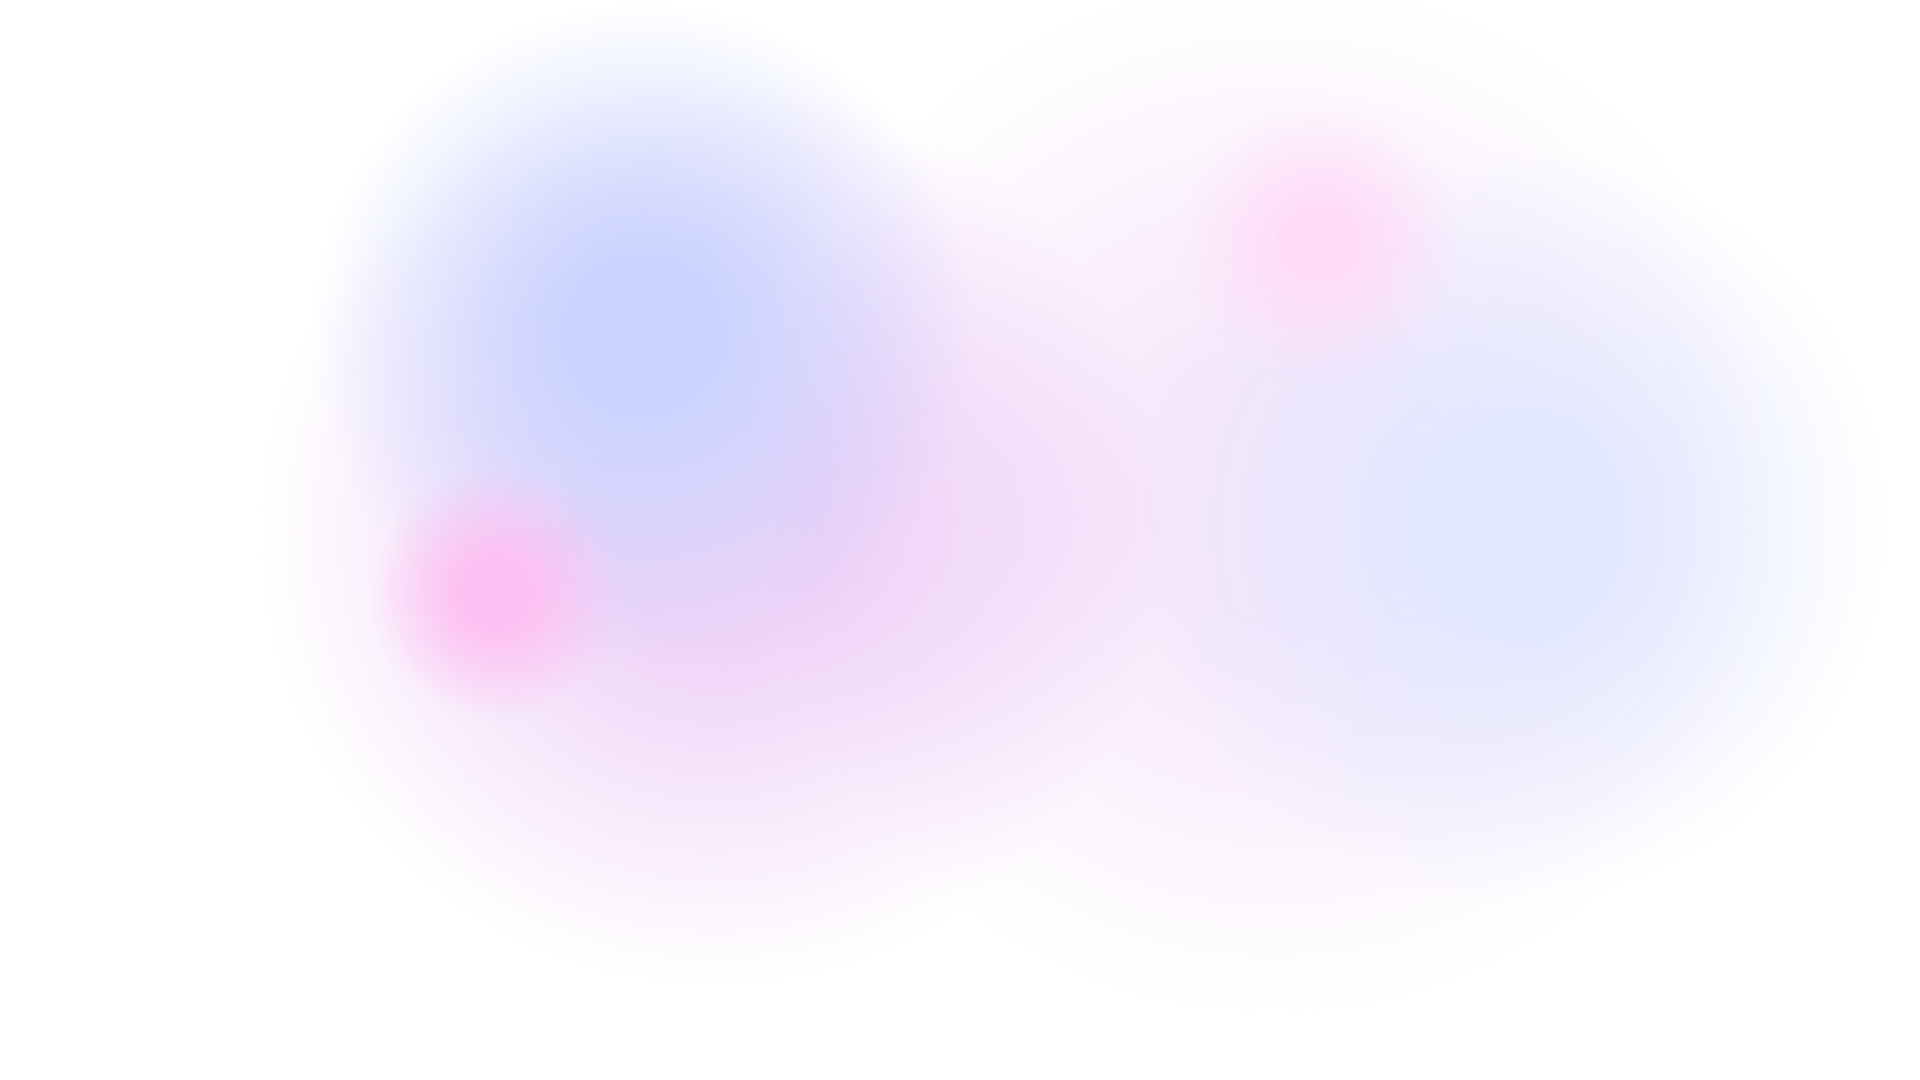
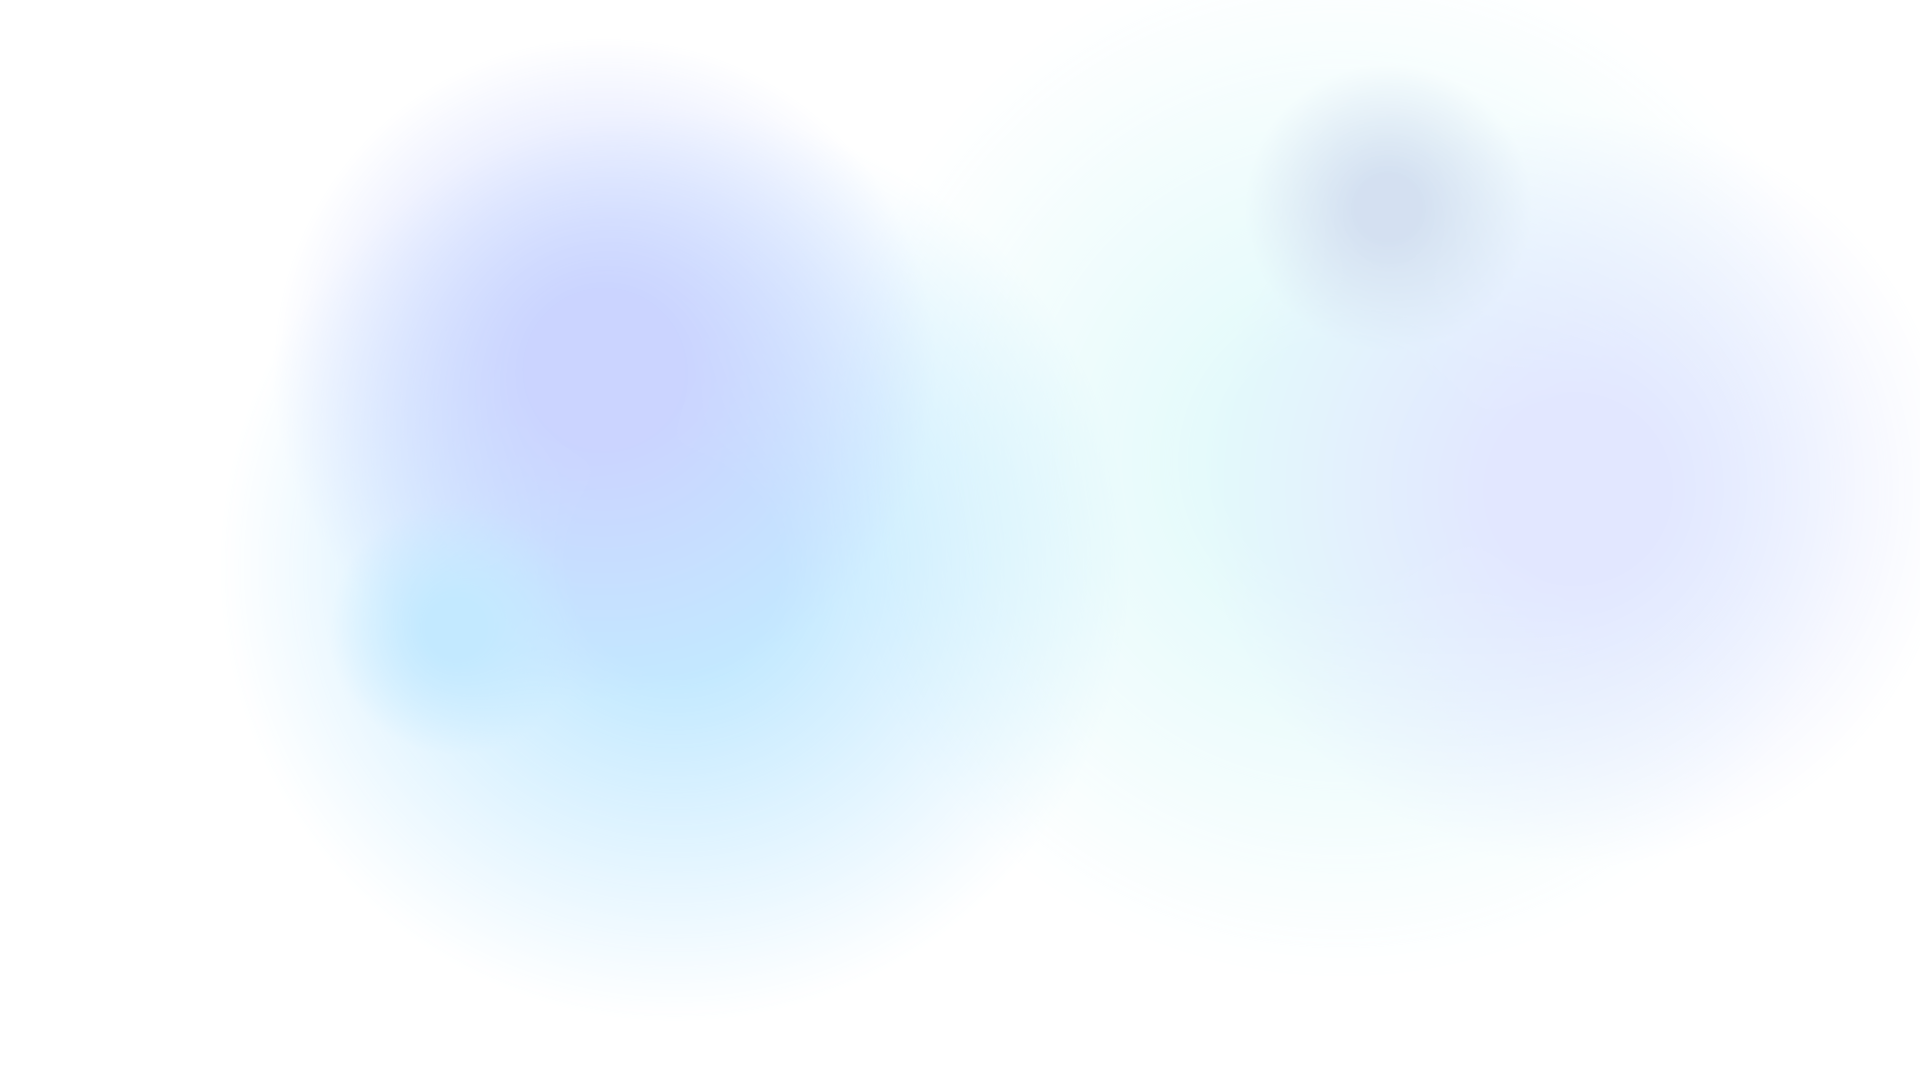
change hero section

Changed region(s): [[0.1562, 0.3361, 0.5625, 0.7944], [0.625, 0.0917, 0.7812, 0.3056]]

diff --git a/src/app/components/HeroSection.tsx b/src/app/components/HeroSection.tsx
@@ -2,6 +2,7 @@
 import React from "react";
 import Image from "next/image";
 import { TypeAnimation } from "react-type-animation";
+import JoinForm from "./JoinForm";
 
 const HeroSection = () => {
     return (
@@ -13,9 +14,16 @@ const HeroSection = () => {
             }}
         >
             <div className="grid grid-cols-1 lg:grid-cols-12 mt-24  mx-auto px-12 py-12 relative">
+                
                 <div className="col-span-7 place-self-center text-center sm:text-left">
                     <h1 className="mb-4 text-6xl lg:text-9xl font-extrabold">
-                        <span className="text-transparent bg-clip-text bg-gradient-to-br from-purple-400 to-pink-600 hover:bg-slate-200">
+                    <p className="text-white text-base ">
+                    ⭐⭐⭐⭐⭐ +200 recensioni
+                    </p>
+                    <p className="text-[#ADB7BE] text-base ">
+                    asjdlkajsjds
+                    </p>
+                        <span className="text-transparent bg-clip-text bg-blue-500 hover:bg-slate-200">
                             Hello I'm{" "}
                         </span>
                         <br />
@@ -37,9 +45,14 @@ const HeroSection = () => {
                     <p className="text-[#ADB7BE] text-base sm:text-lg lg:text-xl">
                     Sono probabilmente il mobile e web developer più appassionato con cui potrete mai lavorare.
                     </p>
-                    <p className="text-[#ADB7BE] text-base sm:text-lg lg:text-xl">
+                    <p className="text-[#ADB7BE] text-base sm:text-lg lg:text-xl pb-6">
                     Se avete un grande progetto che necessita di competenze straordinarie, sono il vostro uomo.
                     </p>
+                    <p className="pb-2 text-[#ADB7BE] ">	&#x2705; Opzione incredibile 1</p>
+                    <p className="pb-2 text-[#ADB7BE] ">	&#x2705; Opzione incredibile 1</p>
+                    <p className="pb-2 text-[#ADB7BE] ">	&#x2705; Opzione incredibile 1</p>
+                    <p className="pb-2 text-[#ADB7BE] ">	&#x2705; Opzione incredibile 1</p>
+
                     <div>
                         <button className="px-6 py-3 w-full sm:w-fit rounded-full mr-4 bg-white text-black mt-8 font-bold">
                             Hire me
@@ -54,15 +67,7 @@ const HeroSection = () => {
 
                 <div className="col-span-5 place-self-center mt-8 lg:mt-0 mb-6 ">
                     
-                    <div className="rounded-full bg-[#181818] w-[250px] h-[250px] lg:w-[600px] lg:h-[600px] relative ">
-                        <Image
-                            src="/images/logo.png"
-                            alt="hero image"
-                            className="absolute transform -translate-x-1/2 -translate-y-1/2 top-1/2 left-1/2 mt-5"
-                            width={500}
-                            height={500}
-                        />
-                    </div>
+                <JoinForm/>
                 </div>
             </div>
         </section>

diff --git a/src/app/components/JoinForm.tsx b/src/app/components/JoinForm.tsx
@@ -1,0 +1,31 @@
+import React from 'react';
+
+const JoinForm = () => {
+  return (
+    <div className="flex flex-col items-center justify-center lg:p-16 max-w-md lg:max-w-2xl mx-auto">
+      <div className="bg-blue-600 text-white  font-bold py-3 px-6 rounded-t-lg text-center w-full text-xl lg:text-3xl">
+        Il tuo Developer di fiducia
+      </div>
+      <div className="p-8 bg-[#121212]  lg:p-16 rounded-b-lg text-white w-full">
+        <h2 className="text-2xl lg:text-4xl font-bold mb-6 lg:mb-10">Hai bisogno di una mano?</h2>
+        <form>
+          <div className="mb-6 lg:mb-10">
+            <input
+              type="email"
+              placeholder="eg. john@gmail.com"
+              className="w-full p-4 lg:p-6 border border-gray-600 rounded-lg text-black text-lg lg:text-2xl"
+            />
+          </div>
+          <button
+            type="submit"
+            className="bg-blue-500 text-white font-bold py-3 px-4 lg:py-4 lg:px-6 rounded-lg w-full text-lg lg:text-2xl hover:bg-yellow-500 transition duration-300"
+          >
+            Contattami →
+          </button>
+        </form>
+      </div>
+    </div>
+  );
+};
+
+export default JoinForm;

diff --git a/src/app/components/ServiceSection.tsx b/src/app/components/ServiceSection.tsx
@@ -75,9 +75,12 @@ const Services = () => {
       
       {/* Centering the button */}
       <div className="flex justify-center mt-8">
-        <button className="px-6 py-3 rounded-full bg-white text-black font-bold">
-          Contattami!
-        </button>
+      <button
+            type="submit"
+            className="bg-blue-500 text-white font-bold py-3 px-4 lg:py-4 lg:px-6 rounded-lg  text-lg lg:text-2xl hover:bg-yellow-500 transition duration-300"
+          >
+            Contattami →
+          </button>
       </div>
     </section>
   );

diff --git a/src/app/components/PricingSection.tsx b/src/app/components/PricingSection.tsx
@@ -17,7 +17,7 @@ const CheckboxIcon = ({ className }: { className?: string }) => (
     const baseStyles = "rounded-md transition-colors duration-200 ease-in-out";
     const fullWidthStyles = fullWidth ? "w-full" : "";
     const sizeStyles = size === "large" ? "px-6 py-3 text-lg" : "px-4 py-2 text-md";
-    const bgStyles = "bg-purple-600 text-white hover:bg-purple-500";
+    const bgStyles = "bg-blue-600 text-white hover:bg-blue-500";
   
     return (
       <button className={`${baseStyles} ${fullWidthStyles} ${sizeStyles} ${bgStyles}`}>
